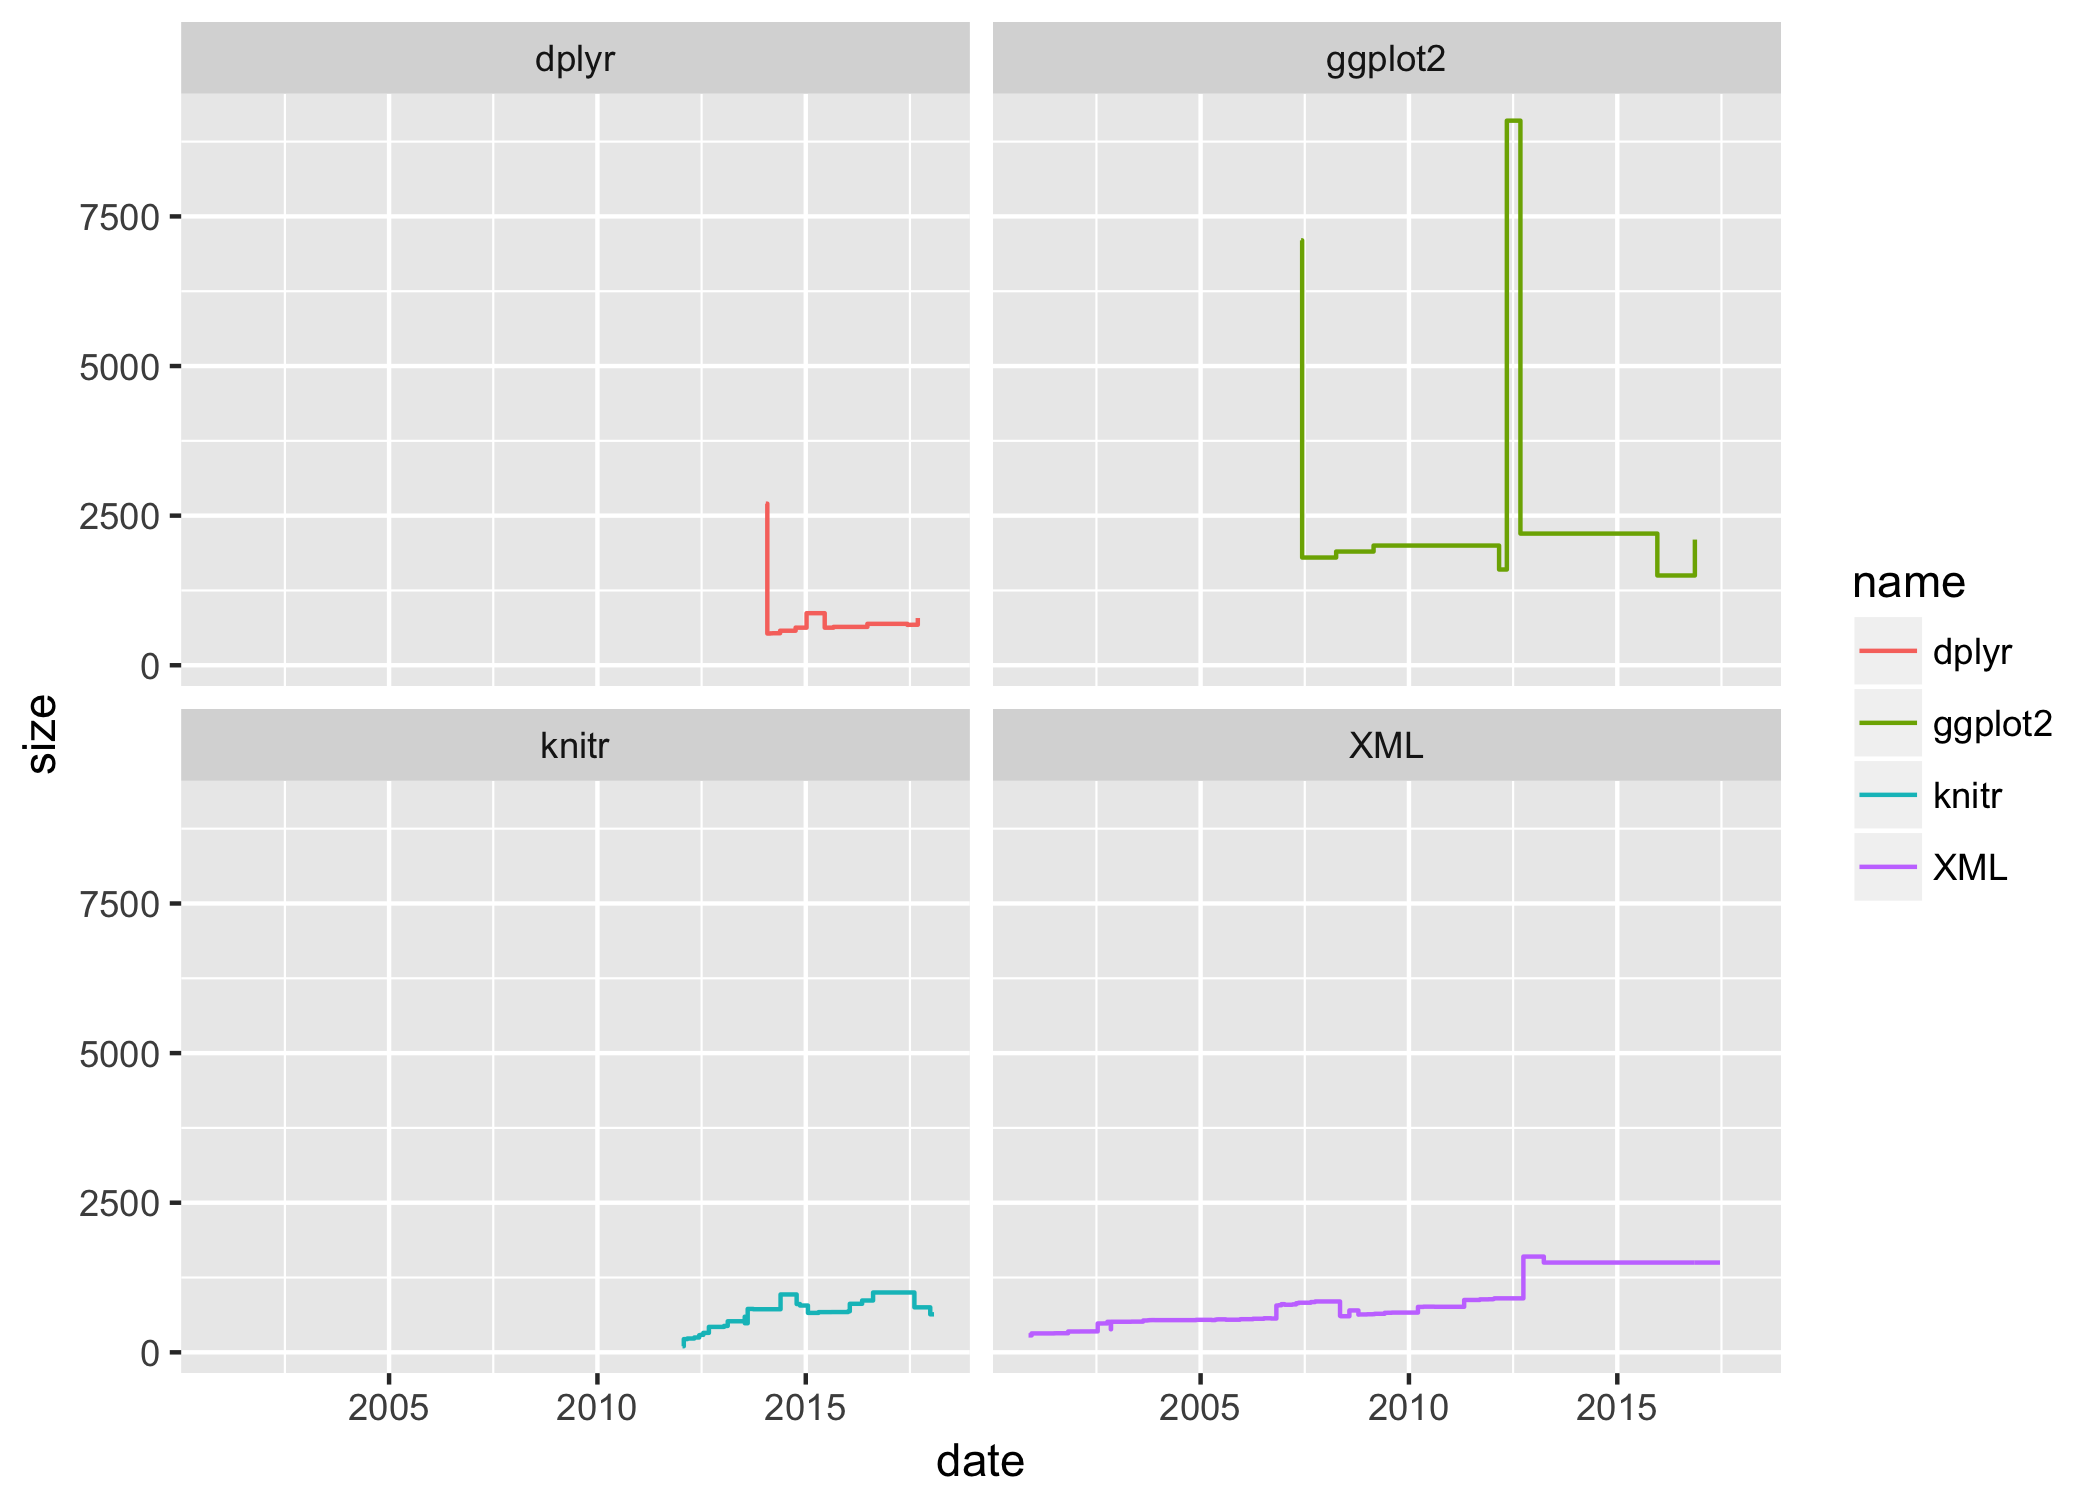
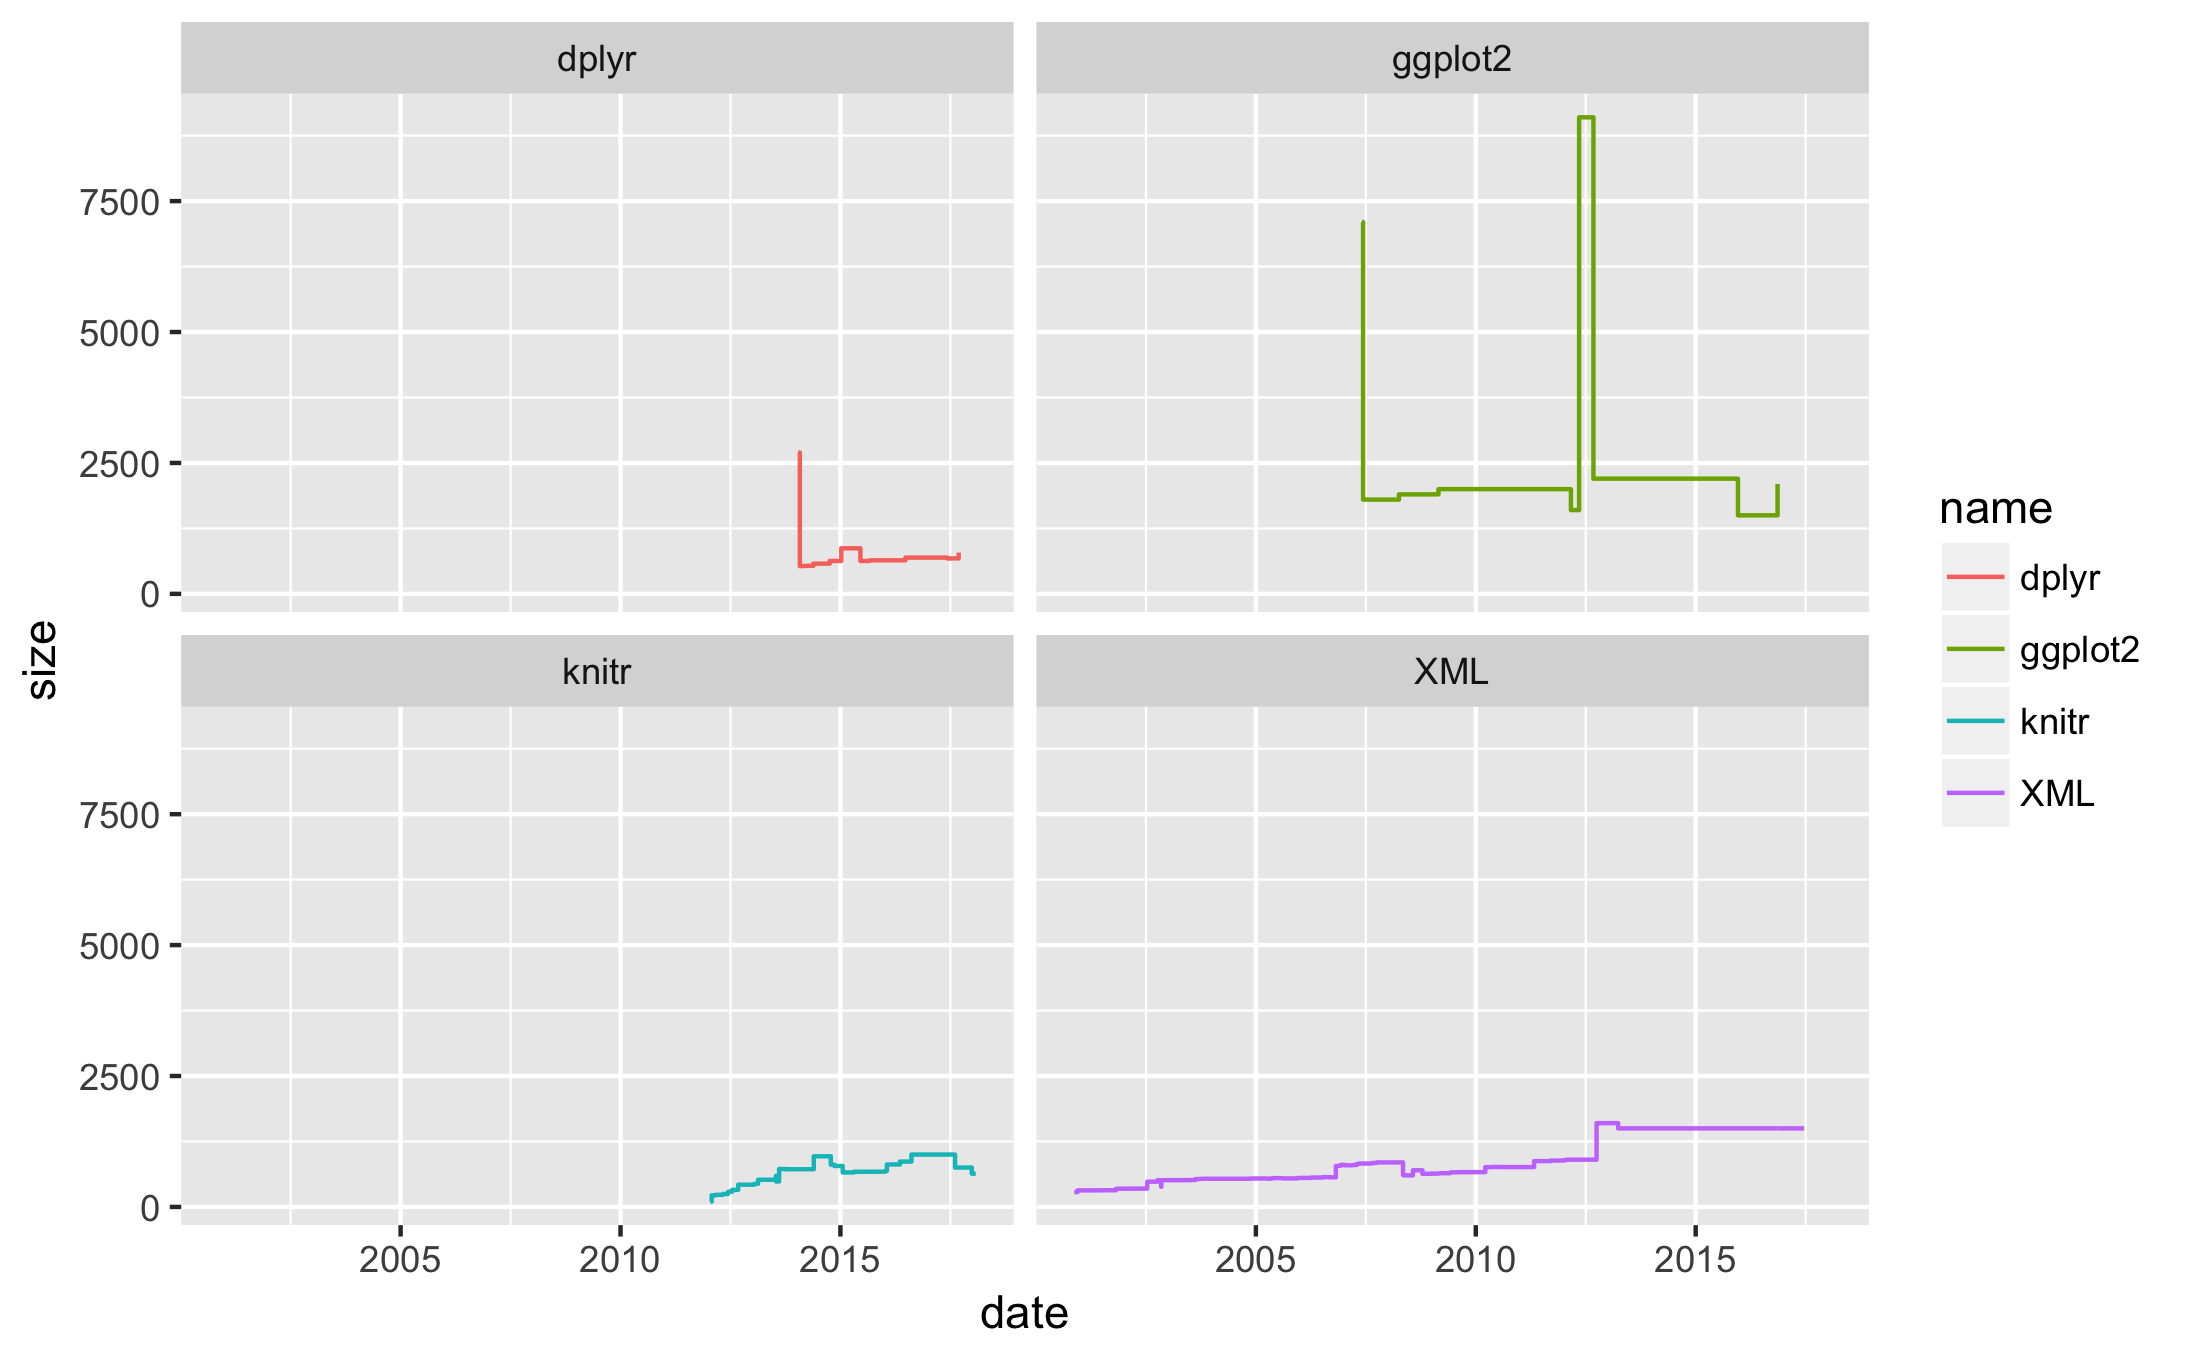
finish

diff --git a/hw4/report/hw04-bartell-lin.md b/hw4/report/hw04-bartell-lin.md
@@ -1,0 +1,262 @@
+hw04
+================
+Bartell Lin
+
+``` r
+source("../code/archive_functions.R")
+source("../code/regex_functions.R")
+```
+
+``` r
+raw_data <- read_archive("stringr")
+clean_data <- clean_archive(raw_data)
+plot_archive(clean_data)
+```
+
+![](hw04-bartell-lin_files/figure-markdown_github/unnamed-chunk-2-1.png)
+
+``` r
+ggsave("../images/stingr.png")
+```
+
+    ## Saving 7 x 5 in image
+
+``` r
+raw_gg <- read_archive("ggplot2")
+clean_gg <- clean_archive(raw_gg)
+write.csv(clean_gg, "../data/ggplot2_archive.csv")
+
+raw_xml <- read_archive("XML")
+clean_xml <- clean_archive(raw_xml)
+write.csv(clean_xml, "../data/XML_archive.csv")
+
+raw_knitr <- read_archive("knitr")
+clean_knitr <- clean_archive(raw_knitr)
+write.csv(clean_knitr, "../data/knitr_archive.csv")
+
+raw_dp <- read_archive("dplyr")
+clean_dp <- clean_archive(raw_dp)
+write.csv(clean_dp, "../data/dplyr_archive.csv")
+```
+
+``` r
+ggplot(rbind(clean_gg, clean_dp, clean_knitr, clean_xml)) + geom_step(aes(date, size, color = name))
+```
+
+![](hw04-bartell-lin_files/figure-markdown_github/unnamed-chunk-4-1.png)
+
+``` r
+ggsave("../images/overlay.png")
+```
+
+    ## Saving 7 x 5 in image
+
+``` r
+ggplot(rbind(clean_gg, clean_dp, clean_knitr, clean_xml)) + geom_step(aes(date, size, color = name)) + facet_wrap(~name)
+```
+
+![](hw04-bartell-lin_files/figure-markdown_github/unnamed-chunk-5-1.png)
+
+``` r
+ggsave("../images/facet.png")
+```
+
+    ## Saving 7 x 5 in image
+
+``` r
+split_char("Go Bears!")
+```
+
+    ## [1] "G" "o" " " "B" "e" "a" "r" "s" "!"
+
+``` r
+split_char("Expecto Patronum")
+```
+
+    ##  [1] "E" "x" "p" "e" "c" "t" "o" " " "P" "a" "t" "r" "o" "n" "u" "m"
+
+``` r
+vec <- c(split_char("Go Bears!"))
+num_vowels(vec)
+```
+
+    ## s
+    ## a e i o u 
+    ## 1 1 0 1 0
+
+``` r
+count_vowels("The quick brown fox jumps over the lazy dog")
+```
+
+    ## s
+    ## a e i o u 
+    ## 1 3 1 4 2
+
+``` r
+count_vowels("THE QUICK BROWN FOX JUMPS OVER THE LAZY DOG")
+```
+
+    ## s
+    ## a e i o u 
+    ## 1 3 1 4 2
+
+``` r
+reverse_chars("gattaca")
+```
+
+    ## [1] "acattag"
+
+``` r
+reverse_chars("Lumox Maxima")
+```
+
+    ## [1] "amixaM xomuL"
+
+``` r
+reverse_words("sentence! this reverse")
+```
+
+    ## [1] "reverse this sentence!"
+
+``` r
+reverse_words("string")
+```
+
+    ## [1] "string"
+
+``` r
+dat <- read.csv('../data/text-emotion.csv', stringsAsFactors = FALSE)
+```
+
+``` r
+count <- c()
+for (i in dat['content']) {
+  count <- c(count, str_length(i))
+}
+summary(count)
+```
+
+    ##    Min. 1st Qu.  Median    Mean 3rd Qu.    Max. 
+    ##    1.00   43.00   69.00   73.41  103.00  167.00
+
+``` r
+hist(count, breaks= seq(0,170,5))
+```
+
+![](hw04-bartell-lin_files/figure-markdown_github/unnamed-chunk-12-1.png)
+
+``` r
+ten <- c()
+n <- length(dat['content'][,])
+counts <- c()
+for (i in 1:1000) {
+  spl <- str_split(dat['content'][, 1], " ")[[i]]
+  spl <- grepl("^@\\w{1}[[:alnum:]_\\]+$", spl)
+  counts <- c(counts, sum(spl))
+  if (sum(spl) == 10) {
+    ten <- c(dat['content'][, 1][[i]])
+  }
+}
+```
+
+``` r
+for (i in 10001:2000) {
+  spl <- str_split(dat['content'][, 1], " ")[[i]]
+  spl <- grepl("^@\\w{1}[[:alnum:]_\\]+$", spl)
+  counts <- c(counts, sum(spl))
+  if (sum(spl) == 10) {
+    ten <- c(dat['content'][, 1][[i]])
+  }
+}
+```
+
+``` r
+for (i in 2001:3000) {
+  spl <- str_split(dat['content'][, 1], " ")[[i]]
+  spl <- grepl("^@\\w{1}[[:alnum:]_\\]+$", spl)
+  counts <- c(counts, sum(spl))
+  if (sum(spl) == 10) {
+    ten <- c(dat['content'][, 1][[i]])
+  }
+}
+```
+
+``` r
+for (i in 3001:4000) {
+  spl <- str_split(dat['content'][, 1], " ")[[i]]
+  spl <- grepl("^@\\w{1}[[:alnum:]_\\]+$", spl)
+  counts <- c(counts, sum(spl))
+  if (sum(spl) == 10) {
+    ten <- c(dat['content'][, 1][[i]])
+  }
+}
+```
+
+``` r
+hist(counts)
+```
+
+![](hw04-bartell-lin_files/figure-markdown_github/unnamed-chunk-17-1.png)
+
+``` r
+ten
+```
+
+    ## [1] "last #ff  @Mel_Diesel @vja4041 @DemonFactory @shawnmcguirt @SEO_Web_Design @ChuckSwanson @agracing @confidentgolf @tluckow @legalblonde31"
+
+``` r
+n <- length(dat['content'][,])
+len <- c()
+hash <- c()
+for (i in 1:1000) {
+  spl <- str_split(dat['content'][, 1], " ")[[i]]
+  s <- grepl("^#\\w{1}[[:alpha:]]+[[:alnum:]]+$", spl)
+  hash <- c(counts, sum(s))
+  len <- c(len, str_length(spl[s]) - 1)
+}
+```
+
+``` r
+for (i in 1001:2000) {
+  spl <- str_split(dat['content'][, 1], " ")[[i]]
+  s <- grepl("^#\\w{1}[[:alpha:]]+[[:alnum:]]+$", spl)
+  hash <- c(counts, sum(s))
+  len <- c(len, str_length(spl[s]) - 1)
+}
+```
+
+``` r
+for (i in 2001:3000) {
+  spl <- str_split(dat['content'][, 1], " ")[[i]]
+  s <- grepl("^#\\w{1}[[:alpha:]]+[[:alnum:]]+$", spl)
+  hash <- c(counts, sum(s))
+  len <- c(len, str_length(spl[s]) - 1)
+}
+```
+
+``` r
+for (i in 3001:4000) {
+  spl <- str_split(dat['content'][, 1], " ")[[i]]
+  s <- grepl("^#\\w{1}[[:alpha:]]+[[:alnum:]]+$", spl)
+  hash <- c(counts, sum(s))
+  len <- c(len, str_length(spl[s]) - 1)
+}
+```
+
+``` r
+hist(hash)
+```
+
+![](hw04-bartell-lin_files/figure-markdown_github/unnamed-chunk-24-1.png)
+
+``` r
+mean(len)
+```
+
+    ## [1] 8.550725
+
+``` r
+unique(len)[which.max(tabulate(match(len, unique(len))))]
+```
+
+    ## [1] 4
